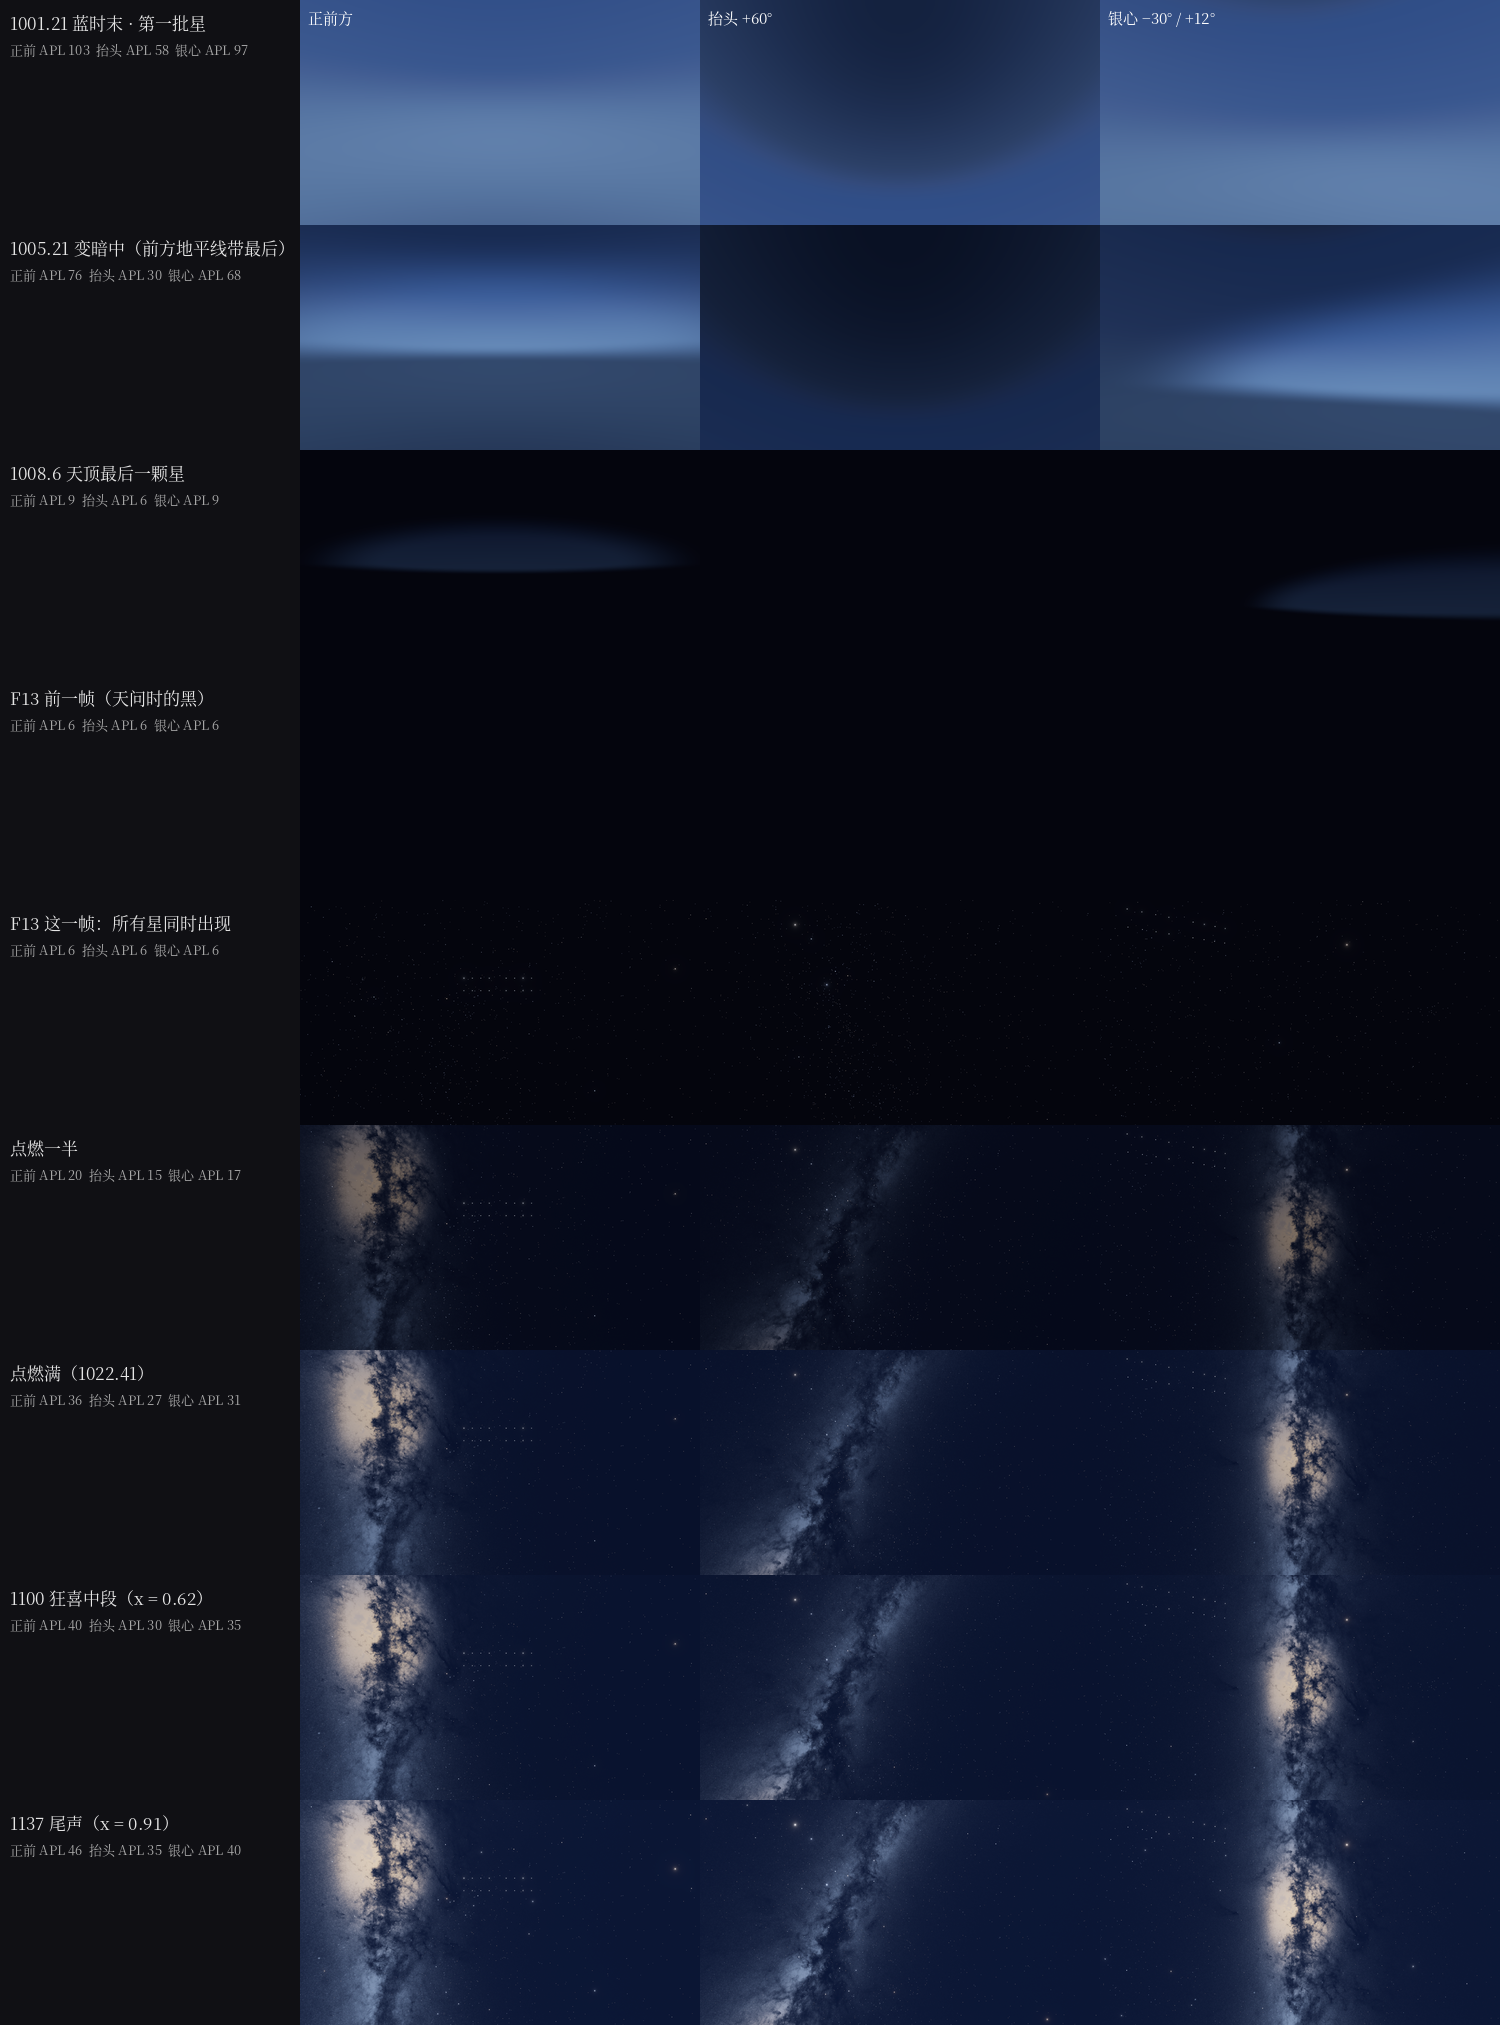
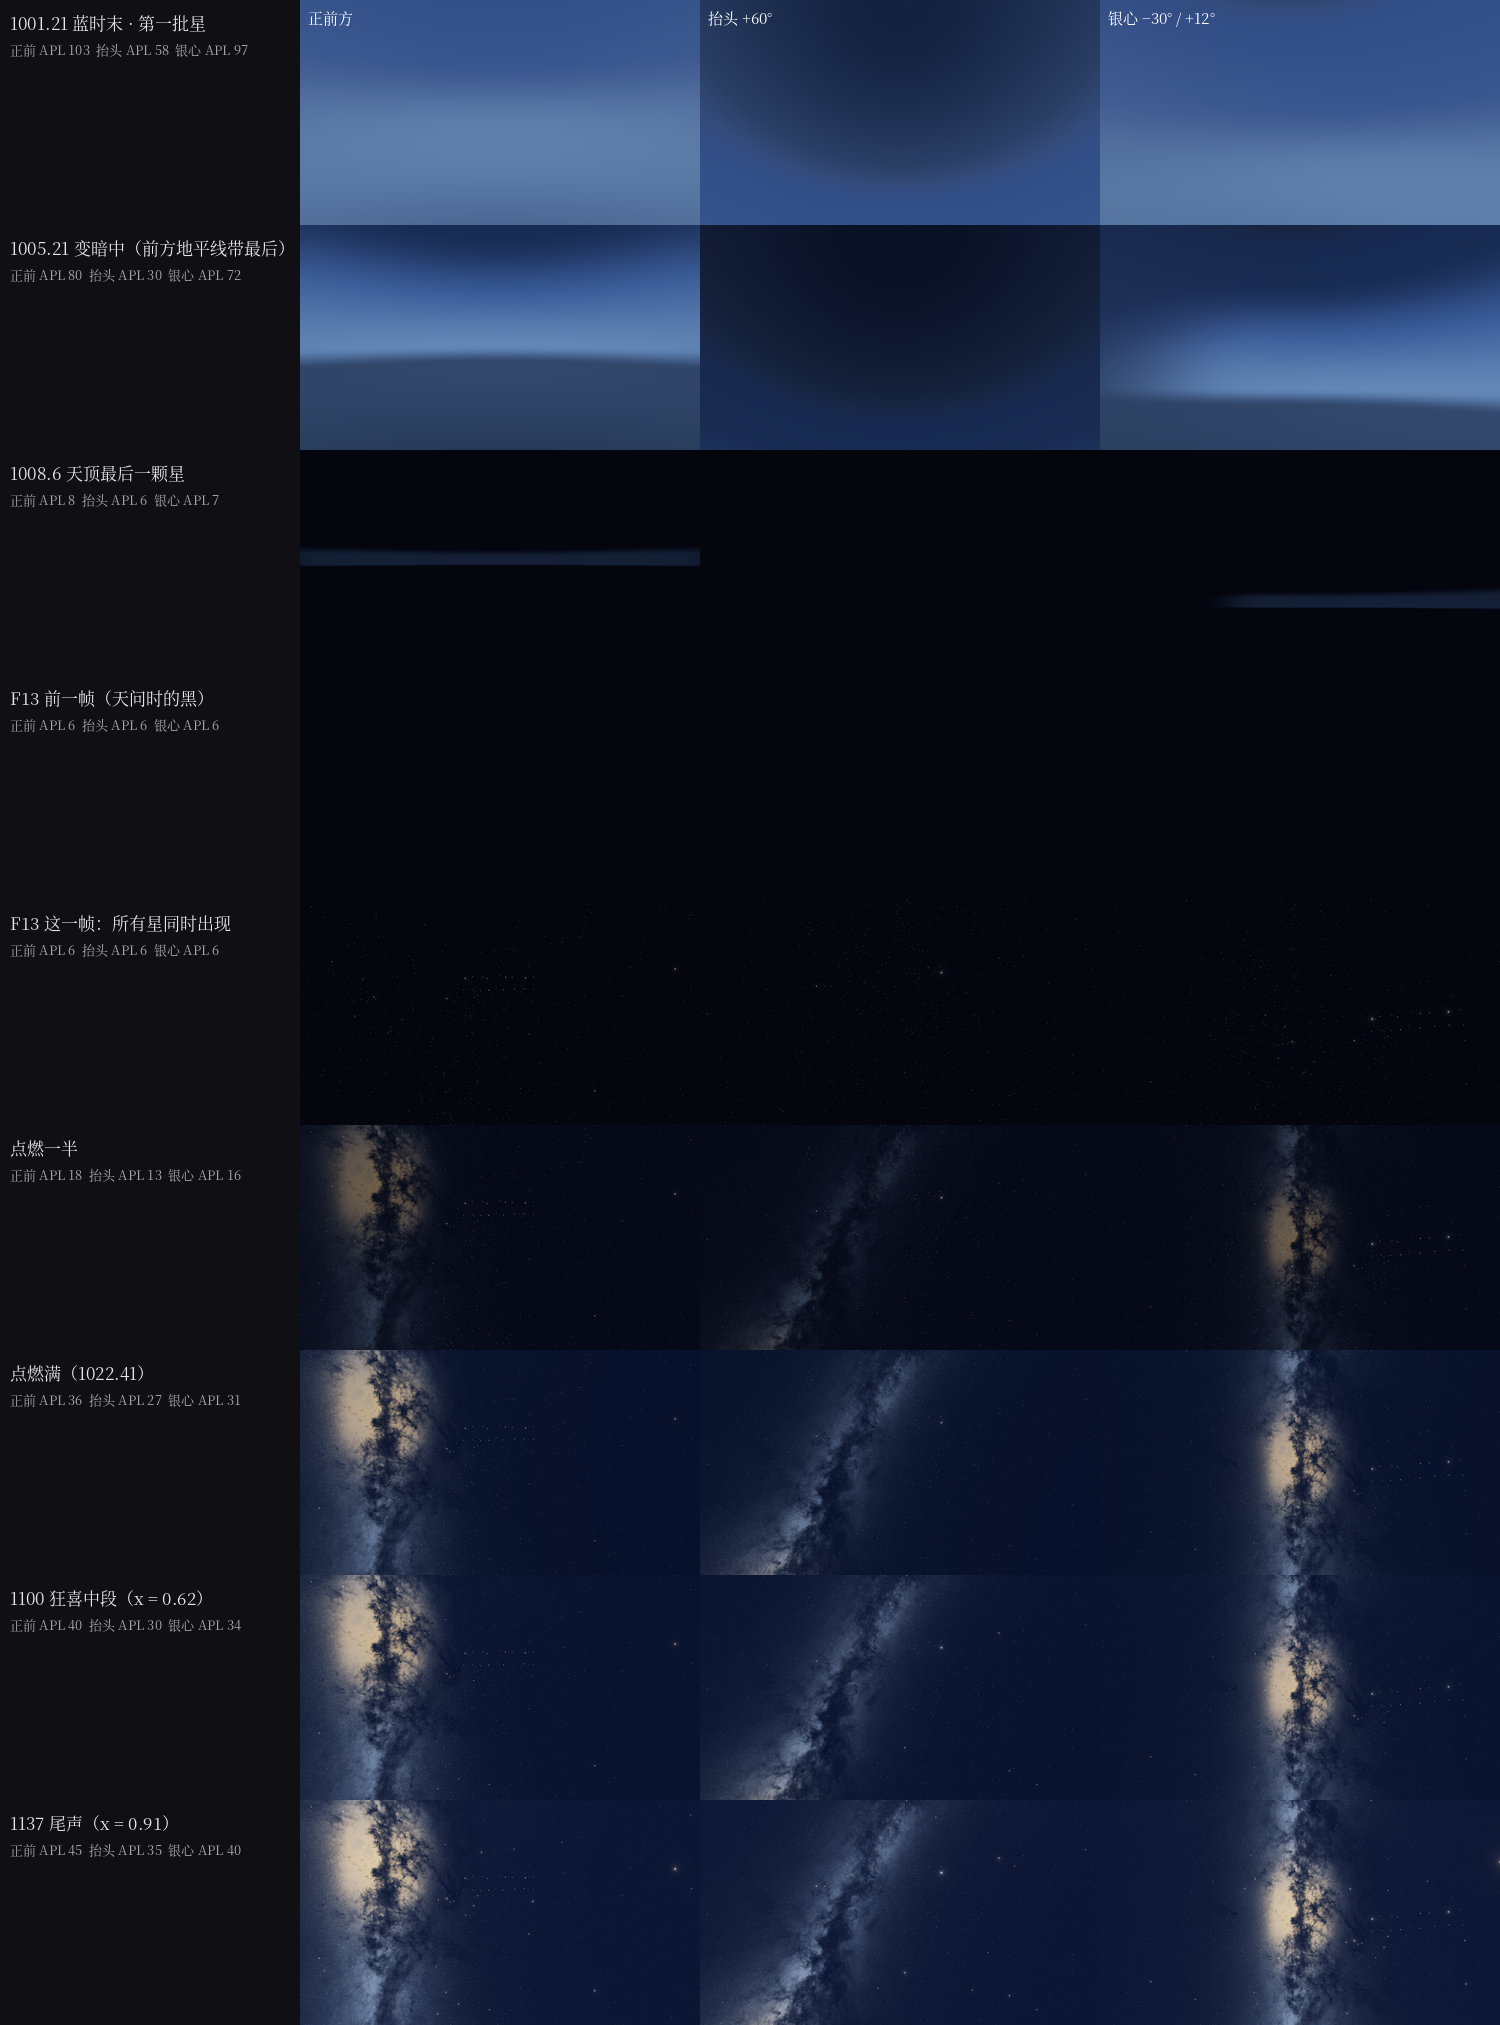
Act 9 v1.3: question stars as magnitudes 1.2-6, reference frames re-rendered, D-06 rerun, STATUS
Claude-Session: https://claude.ai/code/session_01Nf2iZx1zWD6Xt6BAtCCBfu

diff --git a/Act09_StarSea/Tools~/make_act09.py b/Act09_StarSea/Tools~/make_act09.py
@@ -41,14 +41,16 @@ for k, i in enumerate(cand):
                       out_t=round(LAB['act9_start'] + 8.0 * (0.25 + 0.75 * k / (len(cand) - 1)), 2)))
 # ---- the 16 stars of the question (Fonts/strings_all.json poem P09_Tianwen, zh layout): one where each character was,
 # on the character's densest stroke junction (the maximum of its ink blurred by 0.06 em, Source Han Serif), not the
-# em-box centre (final review r1 #4: em-box centres made a 2 x 8 lattice, "a dotted line"); the peak by stroke count
-# over a magnitude-like range 1.2 .. 6 (x 6 = bible §6·9 9a; 1.75 mag), so the 12- and 10-stroke ones lead
+# em-box centre (final review r1 #4: em-box centres made a 2 x 8 lattice, "a dotted line"); brightness by stroke count
+# as MAGNITUDES 1.2 (12 strokes) .. 6 (3 strokes), the peak = 6 x (the bible's HDR x 6) at magnitude 1.2 and the
+# Lanbai/StarPoints slope (x 10^(-0.4 x 0.5 x dm)): 6 .. 0.66, so the faint ones are faint and two or three lead
+# (a peak range 1.2 .. 6 all clipped to white after the grade: the rows still read as equal dots)
 S = json.load(open(os.path.join(REPO, 'Fonts', 'strings_all.json')))
 P = [p for p in S['poems'] if p.get('id') == 'P09_Tianwen'][0]
 lay = P['layout']['zh']['objects'][0]
 dist = P['place'][2]; em_m = dist * math.tan(math.radians(P['size_main']))
 STROKES = {'遂': 12, '古': 5, '之': 3, '初': 7, '谁': 10, '传': 6, '道': 12, '上': 3, '下': 3, '未': 5, '形': 7, '何': 7, '由': 5, '考': 6}
-Q_PEAK = (1.2, 6.0)
+Q_MAG = (1.2, 6.0); Q_PEAK_MAX = 6.0; MAG_SLOPE = 0.5
 GLYPH_FONT = os.path.join(REPO, 'Fonts', 'Originals~', 'SourceHanSerifCN-Regular.otf')   # the SC face's glyphs
 
 
@@ -76,7 +78,8 @@ for c in lay['char_objects']:
     n = STROKES[c['char']]
     qstars.append(dict(char=c['char'], strokes=n, dir=[round(float(t), 6) for t in v], glyph_em=[round(gx, 3), round(gy, 3)],
                        az=round(math.degrees(math.atan2(v[0], v[2])), 3), el=round(math.degrees(math.asin(v[1])), 3),
-                       peak=round(Q_PEAK[0] * (Q_PEAK[1] / Q_PEAK[0]) ** ((n - 3) / 9.0), 3)))
+                       mag=round(Q_MAG[1] - (Q_MAG[1] - Q_MAG[0]) * (n - 3) / 9.0, 2),
+                       peak=round(Q_PEAK_MAX * 10 ** (-0.4 * MAG_SLOPE * (Q_MAG[1] - (Q_MAG[1] - Q_MAG[0]) * (n - 3) / 9.0 - Q_MAG[0])), 3)))
 
 out = dict(
     about='蓝白 · 第 9 幕（星海）的天：时间线、银河点燃线 g(t)、星的亮度、第一批星、天问的 16 颗星。由 Act09_StarSea/Tools~/make_act09.py 生成，不要手改。t = 时间轴秒（由 cues.json 的标签算出；Director 绑标签）。',
@@ -105,7 +108,7 @@ out = dict(
     first_stars=dict(stars=first, colour_target='#E8EEF8', appear=[LAB['blue_hour_start'] + 1.0, LAB['blue_hour_start'] + 4.0], peak=0.55,
                      out_s=0.8, note='天顶附近十几颗真实的星（BSC，≤ 4.6 等，仰角 > 62°）。993.06 + 1 起 3 秒出现；1001.21 起按离天顶由远到近一颗颗熄灭（每颗 0.8 s），天顶那一颗在 1009.21 熄灭，同一刻天问开始对焦（圣经 §3.3）。'),
     question_stars=dict(stars=qstars, appear='F13 那一帧（与所有星同时）', colour='#F2F6FF', fwhm_px=1.6,
-                        note='每个字原来的位置一颗（Fonts/strings_all.json P09_Tianwen 的排版：方位 0°、仰角 +8°、50 m、2.2°），落在这个字笔画最密的交点（思源宋体墨迹按 0.06 em 模糊后的最大值，glyph_em = 相对字框中心的 x、基线以上的 y），不是字框中心；HDR 峰值按笔画数 1.2 × 5^((笔画 − 3) / 9)，即 1.2 … 6（×6，圣经 §6·9 9a；1.75 等），12 画和 10 画的三颗最亮；留到第 9 幕结束。字本身由字体套件的诗句系统在 1.2 s 内暗下。'),
+                        note='每个字原来的位置一颗（Fonts/strings_all.json P09_Tianwen 的排版：方位 0°、仰角 +8°、50 m、2.2°），落在这个字笔画最密的交点（思源宋体墨迹按 0.06 em 模糊后的最大值，glyph_em = 相对字框中心的 x、基线以上的 y），不是字框中心；亮度按笔画数排成星等 6 − 4.8 × (笔画 − 3) / 9（12 画 1.2 等 … 3 画 6 等），HDR 峰值 = 6 × 10^(−0.2 × (星等 − 1.2))（最亮 ×6 = 圣经 §6·9 9a，最暗 0.66），12 画和 10 画的三颗领头；留到第 9 幕结束。字本身由字体套件的诗句系统在 1.2 s 内暗下。'),
     mirrors=dict(schedule='Mirrors/MirrorSchedule.json（pkg/mirrors，「镜与白」）', first_mirror=first_mirror,
                  hold_after_ignition=round(first_mirror - LAB['ignition_full'], 2),
                  note='镜子的网格 / shader / 驱动由「镜与白」交；本幕的搭建脚本在套件到了以后把它挂进 R_StarSea。'),

diff --git a/Sky/STATUS.md b/Sky/STATUS.md
@@ -1,3 +1,5 @@
+2026-10-24 · 天空：**第 9 幕可以终审了（第 2 次）**（`Act09_StarSea/` v1.3，按 `Act09_StarSea/总导演终审.md` 全部改完）：点燃一口气（0.7 s 地板以下平滑起步 + 3.5 s EV 线性，银心早 0.3 s、沿银河带铺开；按渲染的帧量爬升律，正前方 0.23 / 0.86 / 1.71 EV，五视向全过、单调）；1008.6 的最后一抹是贴地平线约 3° 高、顶边平的一条线（±40° 在 1007.2 = 50%）；`stars_cpu.splat` 转向修正，参考帧 / 预设图 / D-06（8.08 / 8.55）重出；天问 16 颗星落在笔画最密处、星等 1.2 … 6；驱动单独一个常开物体、重建删旧的；银心暖尘色（h 80、C\* 15）、1009.21 起地平线状态 = 星空底、天问星色、交接写全。共用文件改了：`Common/Shaders/LanbaiSky.cginc`（`LanbaiGalaxyGainAt`、`LanbaiGalaxyCoreTint`）、`Common/UdonGlobals.md`、`Sky/Shaders/LanbaiSkyLayers.cginc`（夜遮罩、银心增益）、`Lanbai_Sky.shader`、`SkyPresets.json`、`stars_cpu.py`。检查：shader 0 错误（27 个文件）、C# 0 错误、门光带 1.19e-7、预设 / 序列测试 / D-06 全过。**没在 Unity 里编译过。**
+
 2026-10-24 · 天空：**天空套件已进 main（9c43bf5）。第 9 幕可以终审了**（`Act09_StarSea/` v1.2）：按 Gaia 银河重标定（点燃 4.2 s + 保持 10 s，五个视向爬升律全过，F13 +0.00 EV）；1008.6 的浮椭圆修掉（夜遮罩贴着地平线、地平线以下先黑）；`LanbaiGeoLerp` 0 通道偏色、银河高仰角 LOD 修了；星海预设图与全景预览用高斯精灵。检查：shader 0 错误、C# 0 错误、门光带 1.2e-7、预设 / 序列测试 / D-06 全过。参考帧 `Act09_StarSea/Docs~/act09_frames.png`。
 
 2026-10-23 · 天空：**天空套件可以终审了（第 2 次）**。总导演终审（`总导演终审.md`）第一节 8 条和第二节小项都改了：晨的日盘在 1080p 读得出（日心比 0.5° 高 20.7 码值、VR −0.6 EV 时 36.8，`Docs~/presets/dawn_sun_1080_*.png`）；暮玫瑰和蓝之间不再是冷灰带（一道细的淡金白缝），中天回到 `#808AB2` 一带，背日留粉；紫带下界 290，静态 + 淡变整球全 0%；共用 `LanbaiGalaxySample`；驱动 root = null；Gaia 署名原文 + 授权文件；D-09 的数进 README。**说实话的一条**：美术 r2 阻断 #2（暮日右边 2° 的竖台阶）已查明是 HDRI 自己的亮度边，**等本地 8K 截图**确认，不算改完。检查：shader 0 错误（1 警告 = `_Udon_StarShape` 自己声明，D-18 允许）、C# 0 错误、门光带 1.2e-7、预设梯度 / 一个材质 / 紫带全过、序列测试（含淡变紫带）过、D-06 过。

diff --git a/Act09_StarSea/README_Act09.md b/Act09_StarSea/README_Act09.md
@@ -95,7 +95,7 @@
 ## 5. 星的亮度
 
 - 主星：`_StarScale` 1.6、`_MagRef` 0、`_MagSlope` 0.5（物理是 1；压缩到 0.5，6.5 等的星也读得出）、FWHM 1.6 px、最亮 50 颗 ×4。0 等星的峰值线性 6.4（会 bloom），6.5 等 0.08。
-- **天问的 16 颗星**（终审 #4）：每颗仍在“它那个字原来的位置”（`Fonts/strings_all.json` 的 P09_Tianwen 排版：方位 0°、仰角 +8°、50 m、字高 2.2°），但落在**这个字笔画最密的交点**（思源宋体的墨迹按 0.06 em 模糊后的最大值），不是字框中心：相对字框中心横向 −0.32 … +0.30 em、基线以上 0.34 … 0.64 em，两行不再对齐成格子。HDR 峰值按笔画数 1.2 × 5^((笔画 − 3) / 9) = **1.2 … 6**（×6，按圣经；1.75 等的范围）：遂、道（12 画）6.0，谁（10 画）4.2，其余 1.2 … 2.5，两三颗领头，读成一个星座。颜色 `#F2F6FF`（材质 `_Tint`，亮度归一）。
+- **天问的 16 颗星**（终审 #4）：每颗仍在“它那个字原来的位置”（`Fonts/strings_all.json` 的 P09_Tianwen 排版：方位 0°、仰角 +8°、50 m、字高 2.2°），但落在**这个字笔画最密的交点**（思源宋体的墨迹按 0.06 em 模糊后的最大值），不是字框中心：相对字框中心横向 −0.32 … +0.30 em、基线以上 0.34 … 0.64 em，两行不再对齐成格子。亮度按笔画数排成**星等 1.2 … 6**（12 画 1.2 等、10 画 2.3 等 … 3 画 6 等），HDR 峰值 = 6 × 10^(−0.2 × (星等 − 1.2))（`Lanbai/StarPoints` 的斜率 0.5）：遂、道 6.0，谁 3.7，其余 0.66 … 1.8；两三颗领头、暗的真的暗，读成一个星座。（第一次按“峰值 1.2 … 6”做，调色后全部到白，看上去还是一样大的点，改成星等。）颜色 `#F2F6FF`（材质 `_Tint`，亮度归一）。
 - 第一批星：真星的星等 × 0.55，色 `#E8EEF8`。
 
 ## 6. 和圣经的出入（请总导演看）
